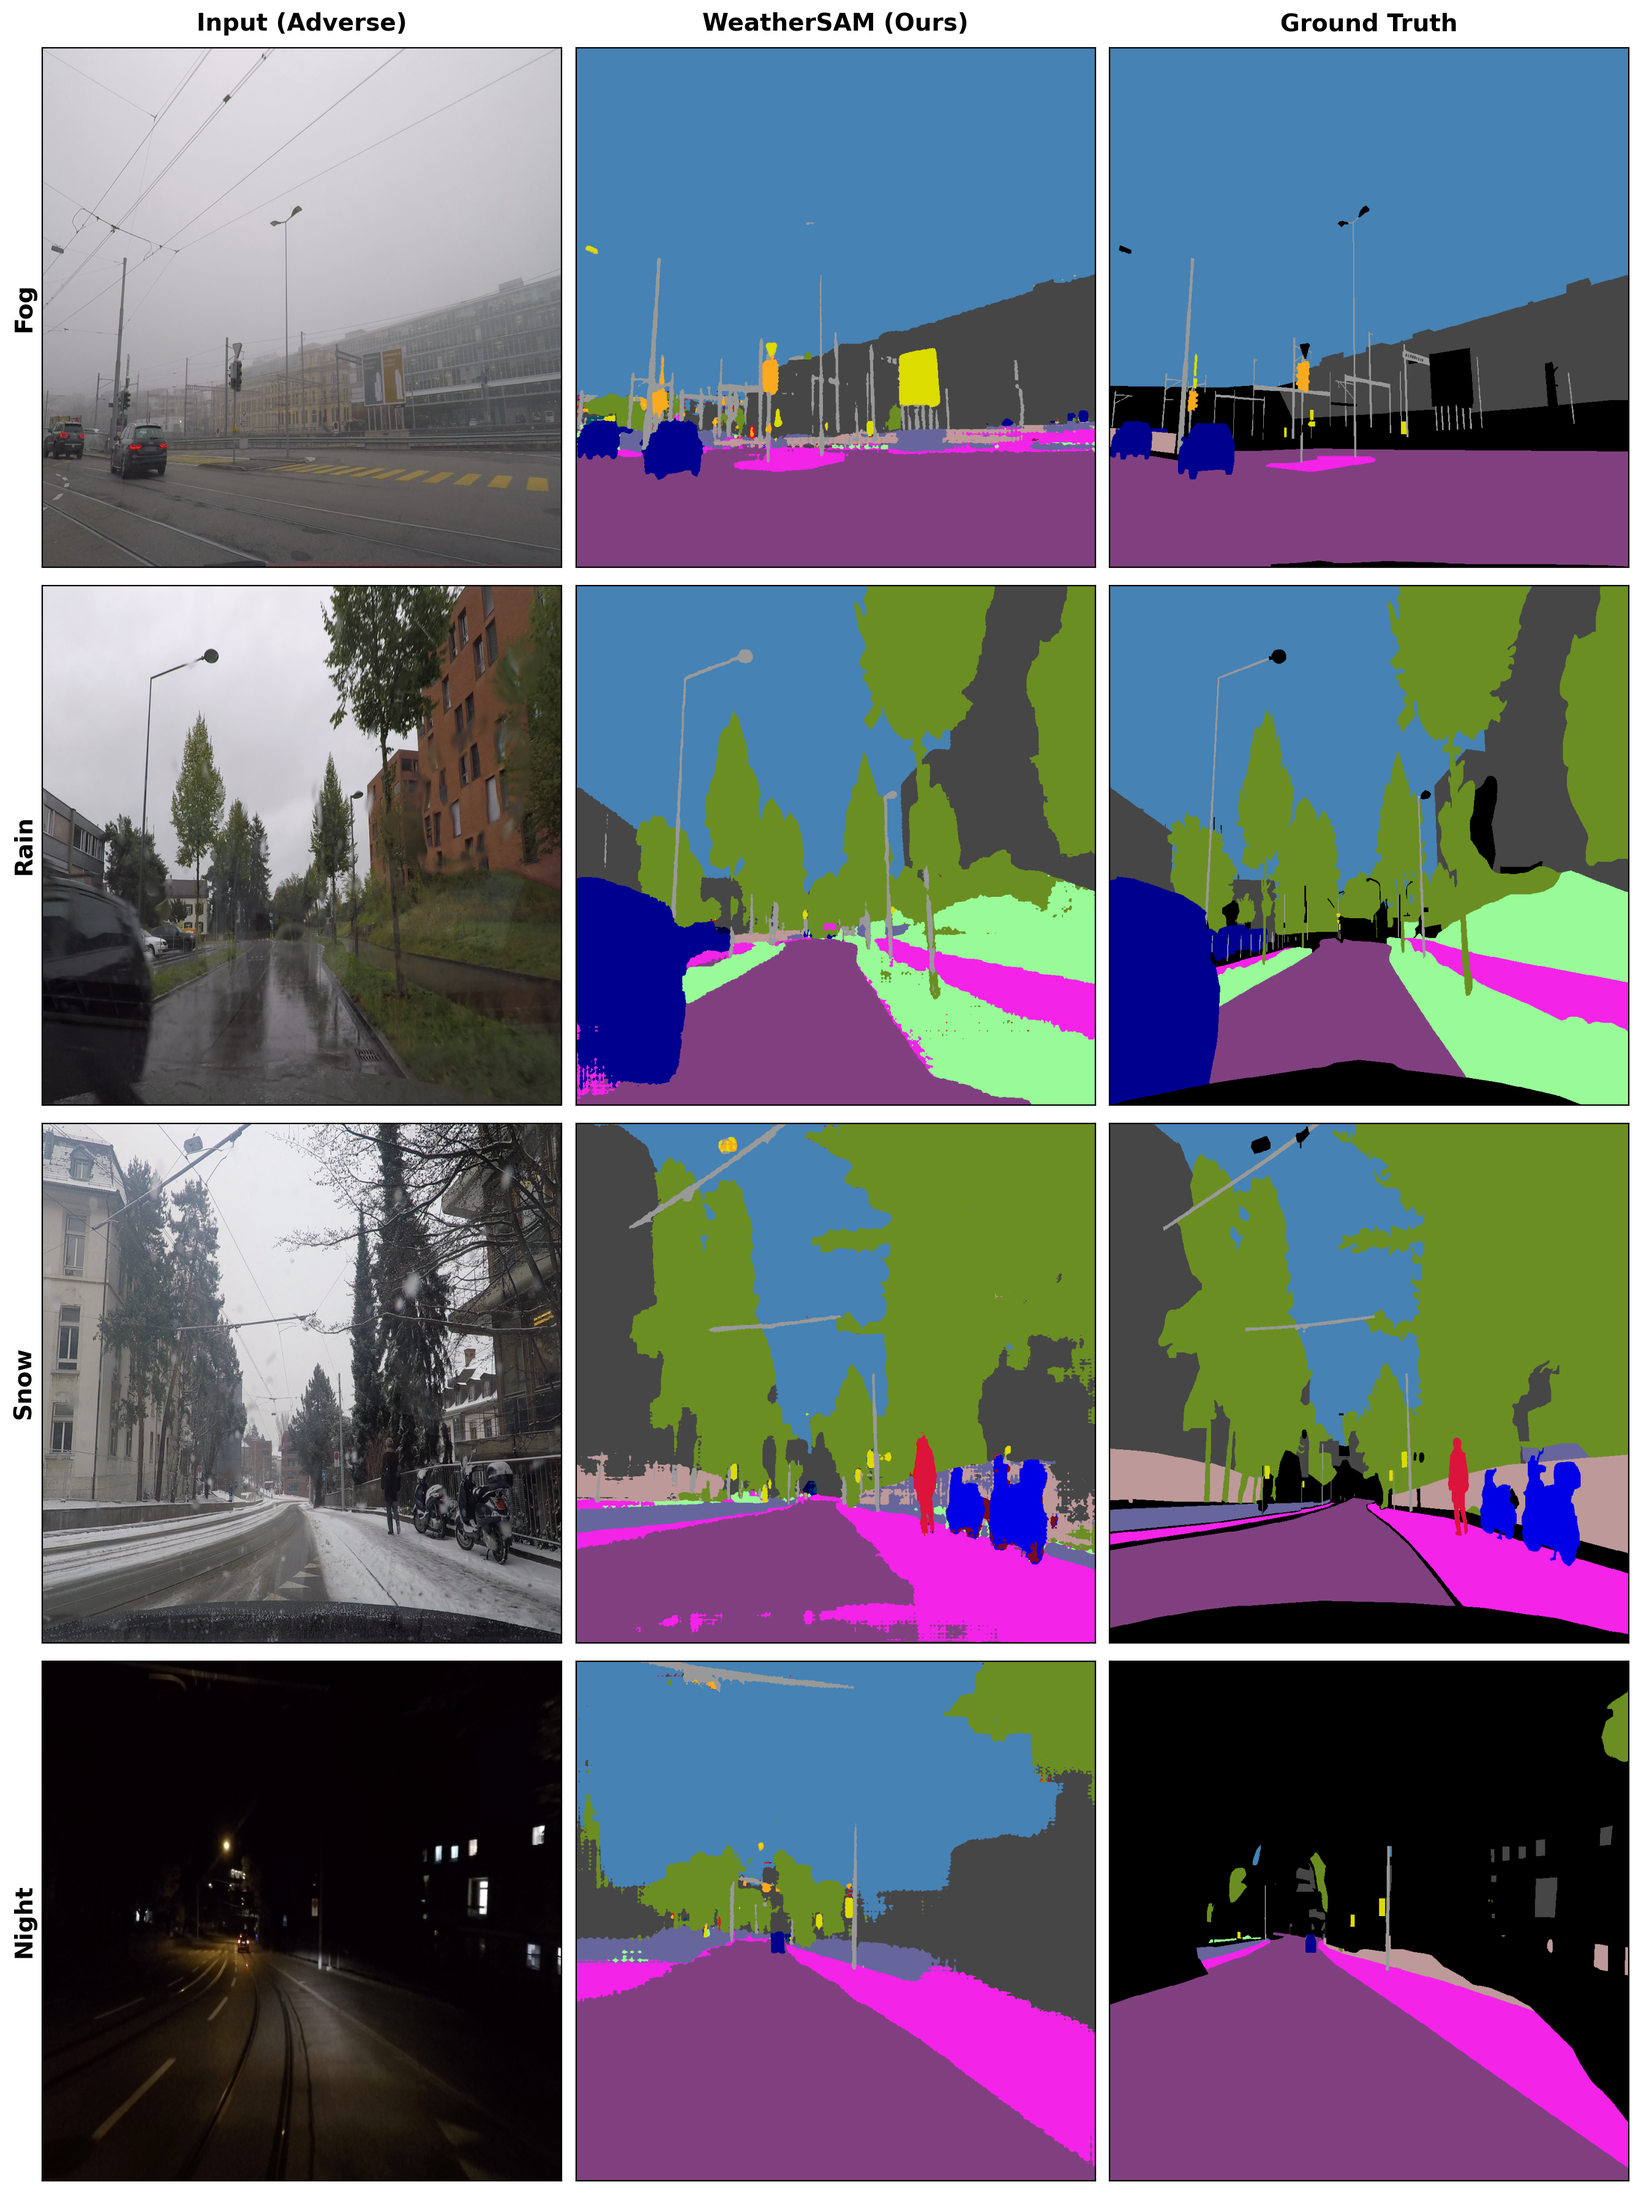
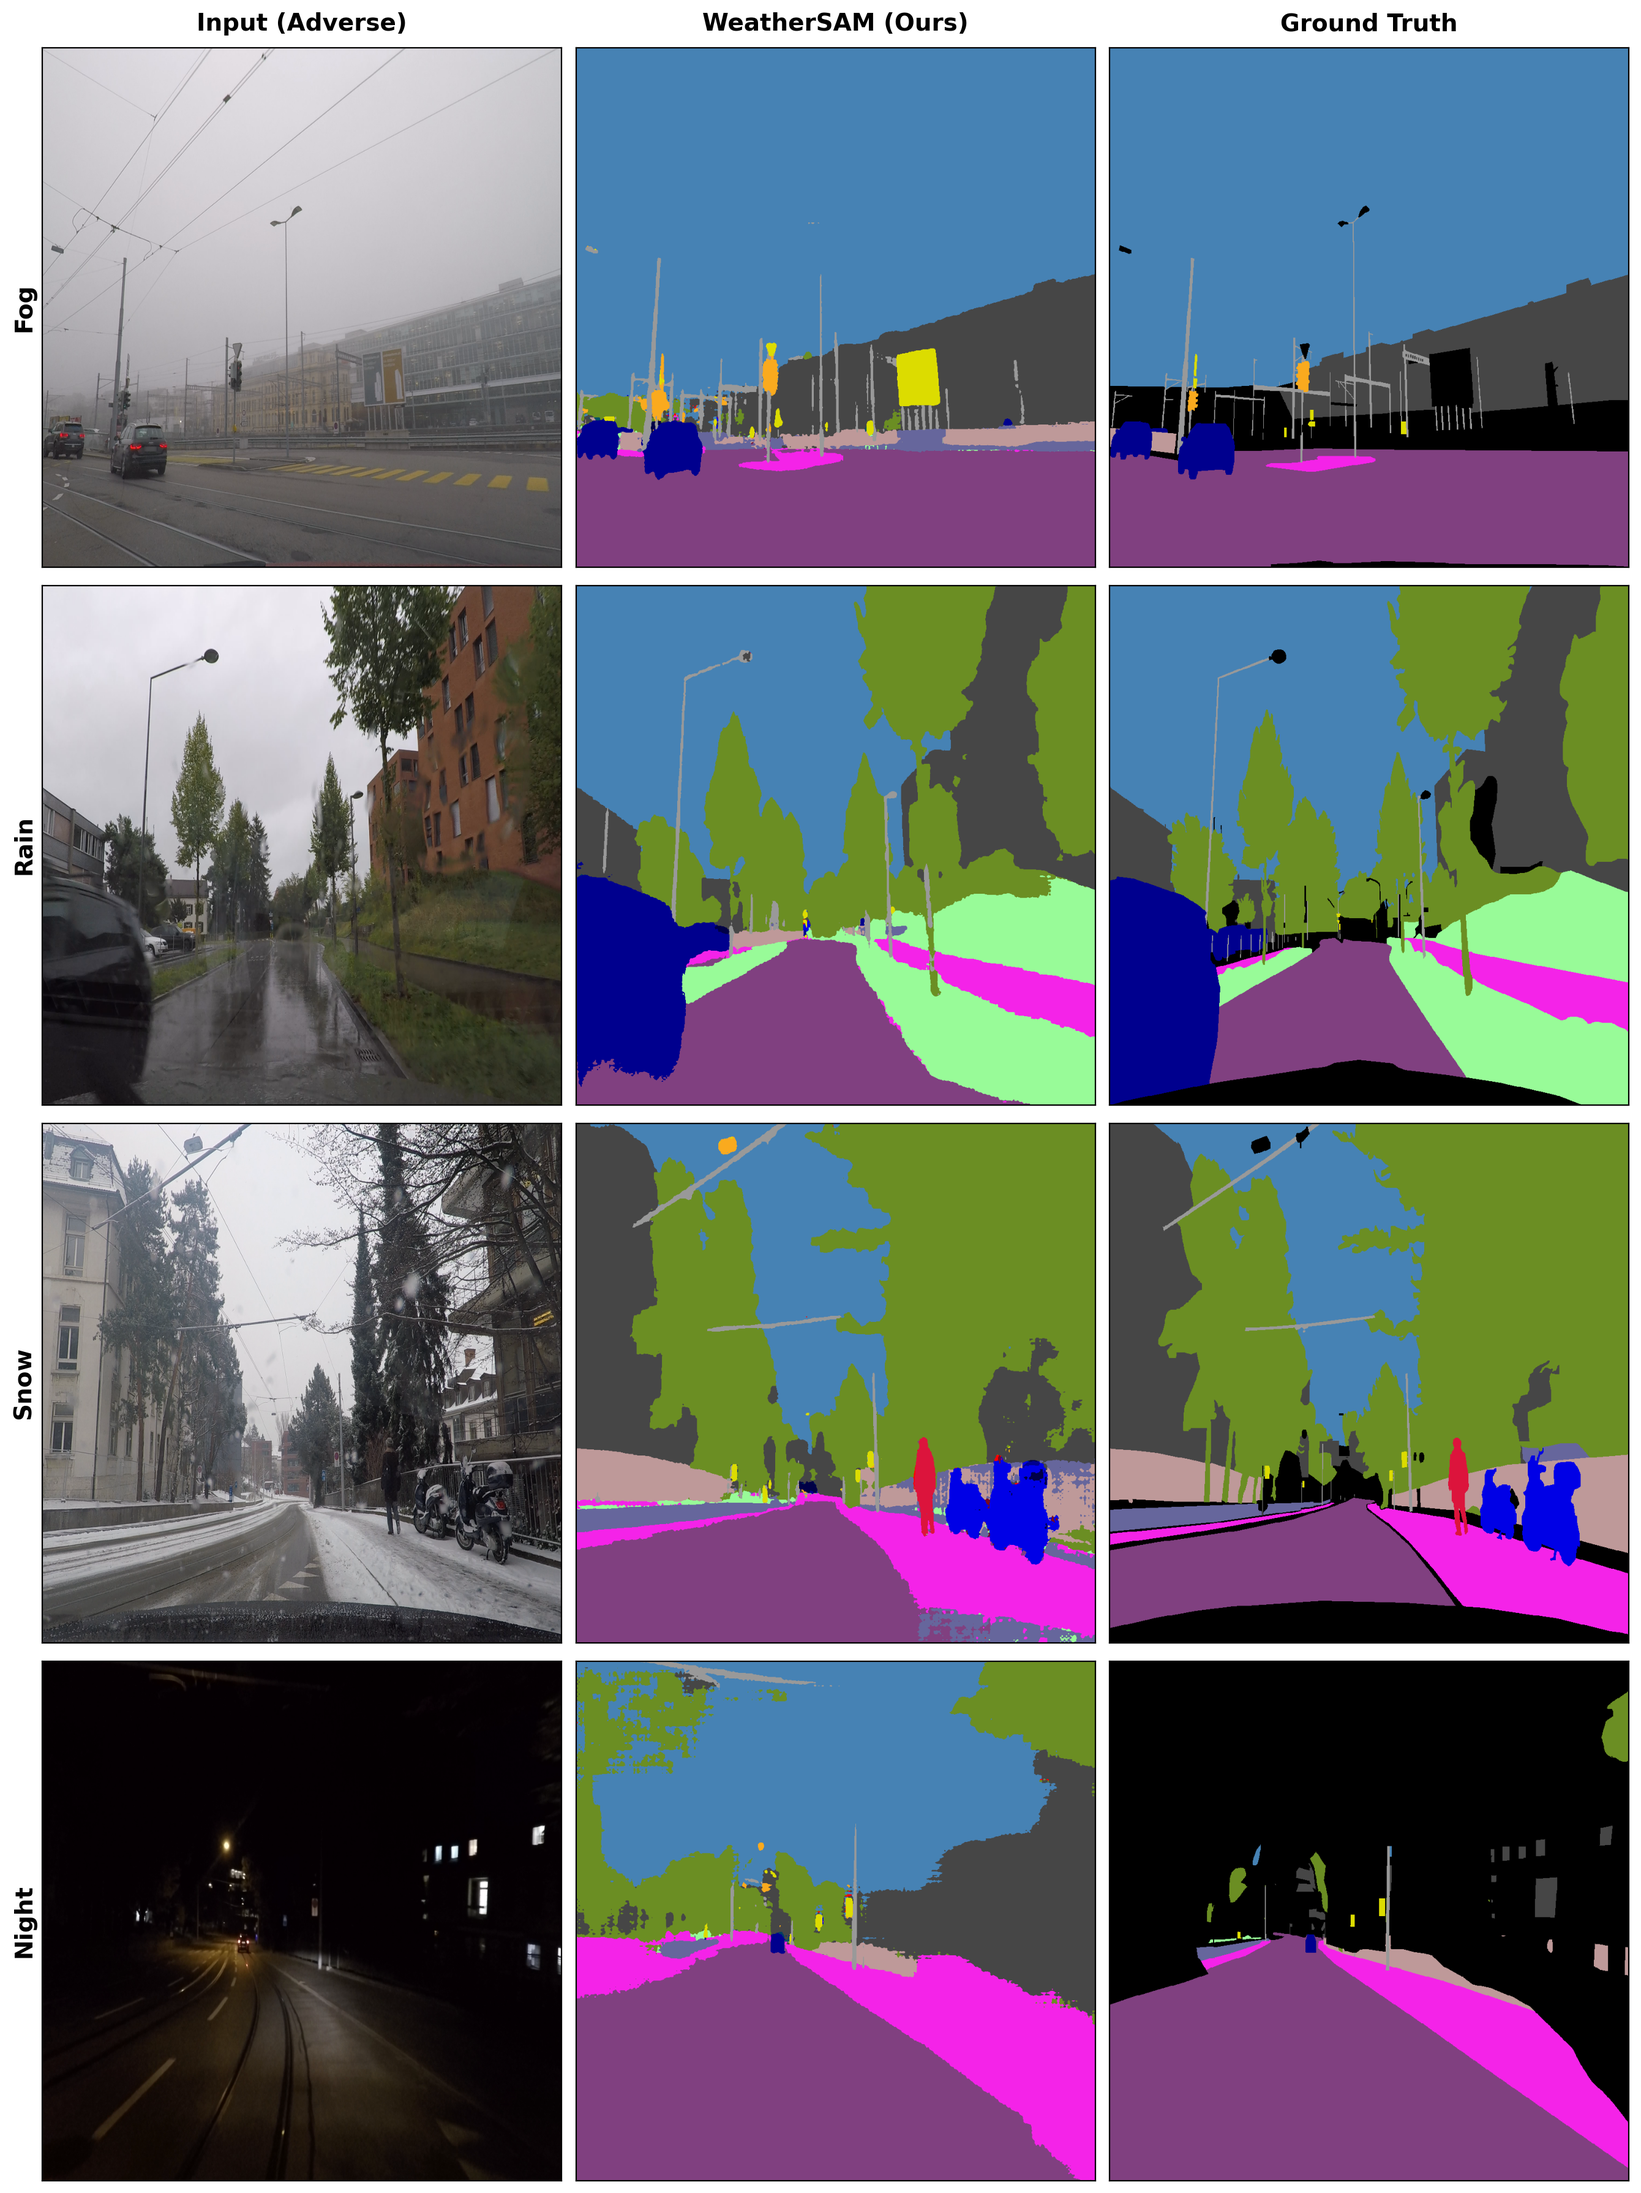
fix(eval): switch from E18 to E27 (true best) checkpoint, re-run E1/E4/E5

diff --git a/segment-anything/scripts/eval/_eval_common.py b/segment-anything/scripts/eval/_eval_common.py
@@ -20,7 +20,7 @@ from utils.weather_dataloader import WeatherSegmentationDataset
 # ── 預設路徑 ───────────────────────────────────────────────
 DEFAULT_CKPT = str(
     _SEGANY_ROOT / "outputs_weather_sam_mask2former_testv15" /
-    "best_E18_mIoU65.06_LR4.6e-05.pth"
+    "best_E27_mIoU65.68_LR4.0e-05.pth"
 )
 DEFAULT_VAL_CSV = str(
     _SEGANY_ROOT.parent / "Datasets" / "acdc_adverse_ref_rgb_val.csv"

diff --git a/segment-anything/scripts/eval/eval_e1_acdc_val_full.py b/segment-anything/scripts/eval/eval_e1_acdc_val_full.py
@@ -139,7 +139,7 @@ def main():
     # ── 輸出 Markdown ──
     md_path = OUTPUT_ROOT / 'e1_acdc_val_results.md'
     lines = []
-    lines.append('# E1: WeatherSAM v15 (E18) — ACDC val Evaluation')
+    lines.append('# E1: WeatherSAM v15 (E27) — ACDC val Evaluation')
     lines.append('')
     lines.append(f'**Checkpoint:** `{Path(DEFAULT_CKPT).name}`')
     lines.append(f'**Date:** {datetime.now().strftime("%Y-%m-%d")}')

diff --git a/docs/experiments/v15-eval-2026-05-14/e1_acdc_val_results.md b/docs/experiments/v15-eval-2026-05-14/e1_acdc_val_results.md
@@ -1,40 +1,40 @@
-# E1: WeatherSAM v15 (E18) — ACDC val Evaluation
+# E1: WeatherSAM v15 (E27) — ACDC val Evaluation
 
-**Checkpoint:** `best_E18_mIoU65.06_LR4.6e-05.pth`
+**Checkpoint:** `best_E27_mIoU65.68_LR4.0e-05.pth`
 **Date:** 2026-05-14
 **Samples:** 406 (fog=100, rain=100, snow=100, night=106)
-**Overall mIoU:** 64.91%
+**Overall mIoU:** 65.51%
 
 ## Per-Condition mIoU
 
 | Condition | mIoU (%) |
 |-----------|---------:|
-| Fog       | 67.33 |
-| Rain      | 62.87 |
-| Snow      | 68.51 |
-| Night     | 48.35 |
-| **All**   | **64.91** |
+| Fog       | 70.56 |
+| Rain      | 64.35 |
+| Snow      | 69.30 |
+| Night     | 48.85 |
+| **All**   | **65.51** |
 
 ## Per-Class × Per-Condition IoU (%)
 
 | Class | Fog | Rain | Snow | Night | All |
 |-------|----:|-----:|-----:|------:|----:|
-| road | 96.3 | 93.7 | 90.9 | 95.2 | 94.3 |
-| sidewalk | 84.0 | 78.0 | 76.1 | 79.2 | 79.2 |
-| building | 90.3 | 88.0 | 88.0 | 86.3 | 88.1 |
-| wall | 76.7 | 40.3 | 73.1 | 52.3 | 60.3 |
-| fence | 65.5 | 38.1 | 52.0 | 52.0 | 51.2 |
-| pole | 67.0 | 59.6 | 60.6 | 55.3 | 61.0 |
-| traffic light | 68.6 | 67.4 | 71.4 | 61.4 | 68.0 |
-| traffic sign | 71.1 | 68.0 | 75.7 | 43.3 | 62.5 |
-| vegetation | 90.4 | 91.9 | 89.2 | 79.5 | 89.4 |
-| terrain | 61.9 | 67.8 | 58.0 | 24.2 | 56.4 |
-| sky | 97.9 | 98.0 | 97.4 | 13.9 | 97.7 |
-| person | 64.4 | 64.6 | 74.5 | 49.7 | 64.1 |
-| rider | 19.6 | 1.4 | 0.1 | 8.2 | 7.3 |
-| car | 87.5 | 90.0 | 87.6 | 73.3 | 87.2 |
-| truck | 67.6 | 50.8 | 83.2 | 18.9 | 70.3 |
-| bus | 26.6 | 63.7 | 40.0 | 0.0 | 48.5 |
-| train | 43.1 | 49.5 | 83.9 | 57.8 | 63.9 |
-| motorcycle | 48.2 | 33.1 | 47.5 | 28.1 | 39.8 |
-| bicycle | 52.7 | 50.3 | 52.4 | 39.9 | 44.1 |
+| road | 98.0 | 96.0 | 93.8 | 94.6 | 95.4 |
+| sidewalk | 88.5 | 82.6 | 80.1 | 76.3 | 80.8 |
+| building | 91.0 | 88.1 | 88.3 | 86.3 | 88.4 |
+| wall | 82.2 | 43.6 | 74.3 | 51.2 | 61.8 |
+| fence | 66.2 | 45.6 | 50.4 | 51.7 | 52.6 |
+| pole | 68.8 | 61.6 | 63.3 | 56.3 | 62.9 |
+| traffic light | 71.2 | 72.1 | 69.4 | 61.2 | 69.9 |
+| traffic sign | 77.4 | 71.8 | 75.8 | 45.4 | 65.1 |
+| vegetation | 90.6 | 92.3 | 89.9 | 77.6 | 89.6 |
+| terrain | 59.1 | 66.6 | 60.0 | 23.2 | 54.4 |
+| sky | 98.0 | 98.2 | 97.6 | 15.2 | 97.8 |
+| person | 52.5 | 68.8 | 76.0 | 52.2 | 64.8 |
+| rider | 3.5 | 1.1 | 0.0 | 8.8 | 4.9 |
+| car | 89.6 | 90.5 | 86.5 | 73.6 | 87.6 |
+| truck | 58.5 | 48.6 | 72.6 | 24.0 | 62.1 |
+| bus | 54.5 | 57.9 | 40.3 | 0.0 | 51.8 |
+| train | 69.0 | 44.4 | 82.1 | 64.1 | 68.5 |
+| motorcycle | 54.9 | 32.9 | 50.3 | 30.6 | 41.6 |
+| bicycle | 66.8 | 59.8 | 66.1 | 35.7 | 44.7 |
